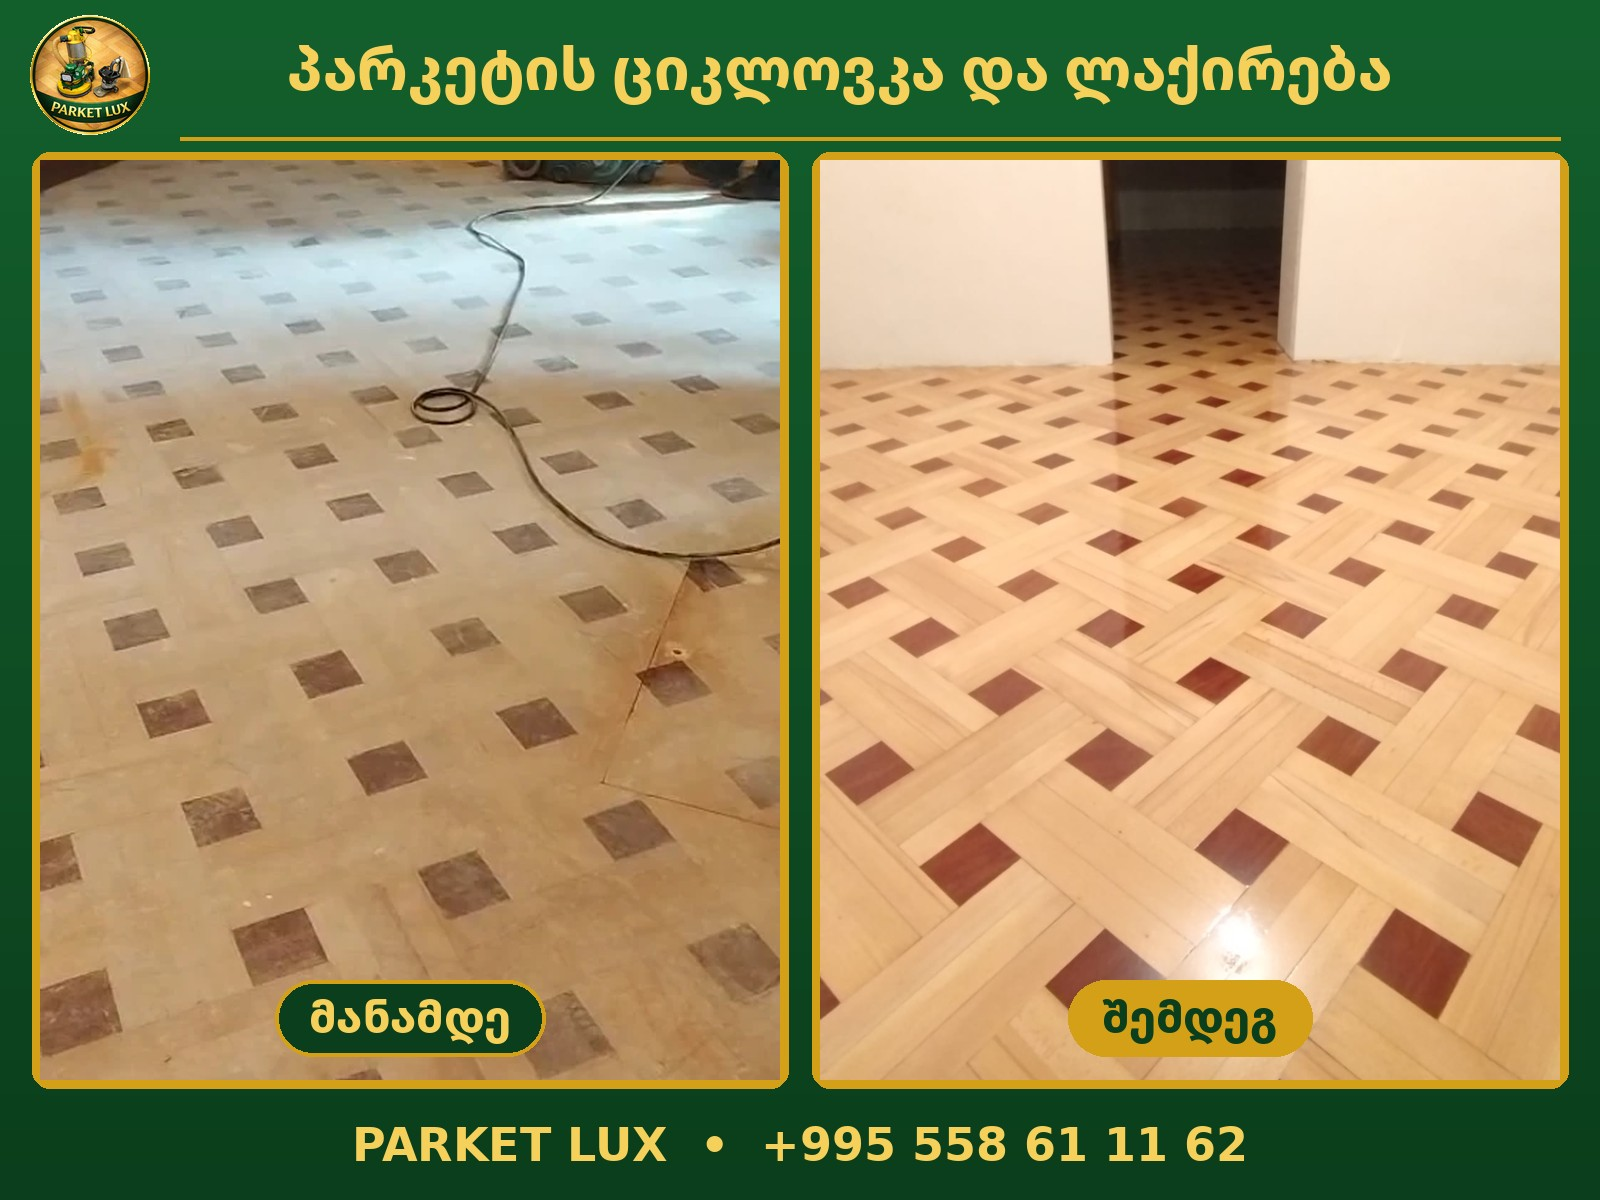
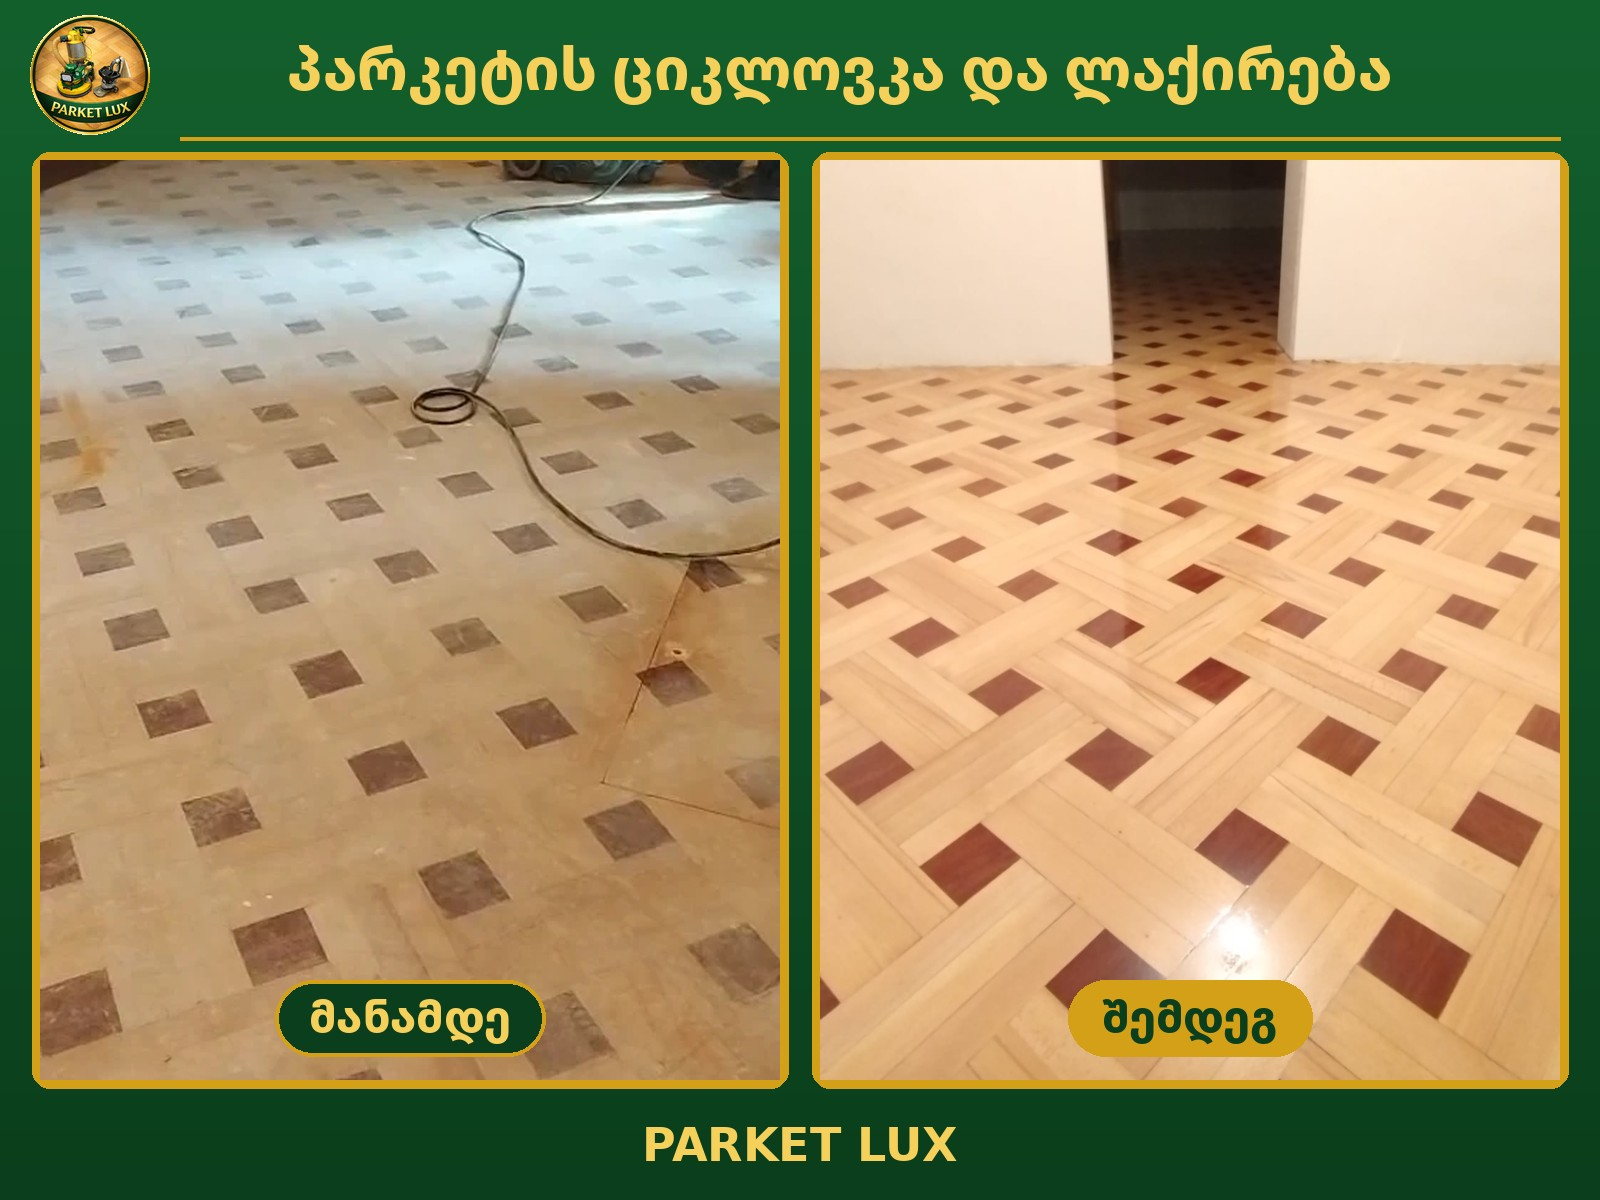
Remove phone number from Google Business images
Google rejects posts with contact details in them.

Claude-Session: https://claude.ai/code/session_01FbR8ftSrrjjSMDM7CAkupj

Changed region(s): [[0.2188, 0.925, 0.7812, 0.9867]]

diff --git a/google-business/build_photos.py b/google-business/build_photos.py
@@ -37,7 +37,7 @@ def before_after(bf, af, out, title="პარკეტის ციკლოვ
         tw = d.textlength(lab, font=lf); px, py = x + pw/2 - tw/2 - 34, y + ph - 100
         d.rounded_rectangle((px, py, px + tw + 68, py + 76), 38, fill=DGREEN if i == 0 else GOLD, outline=GOLD, width=4)
         d.text((px + 34, py + 6), lab, font=lf, fill=LGOLD if i == 0 else DGREEN)
-    ctext(d, W/2, H - FT + 28, "PARKET LUX  •  +995 558 61 11 62", ImageFont.truetype(LAT, 46), LGOLD)
+    ctext(d, W/2, H - FT + 28, "PARKET LUX", ImageFont.truetype(LAT, 46), LGOLD)
     c.save(out, quality=90)
 
 def cover_photo(src, out):
@@ -47,7 +47,7 @@ def cover_photo(src, out):
     d = ImageDraw.Draw(c); d.line((0, H - 170, W, H - 170), fill=GOLD, width=5)
     bg = badge(210); c.paste(bg, (40, H - 245), bg)
     d.text((280, H - 150), "პარკეტის ციკლოვკა და ლაქირება", font=ImageFont.truetype(GEO, 56), fill=LGOLD)
-    d.text((282, H - 70), "PARKET LUX  •  +995 558 61 11 62", font=ImageFont.truetype(LAT, 40), fill=(255, 255, 255))
+    d.text((282, H - 70), "PARKET LUX", font=ImageFont.truetype(LAT, 40), fill=(255, 255, 255))
     c.save(out, quality=90)
 
 if __name__ == "__main__":
